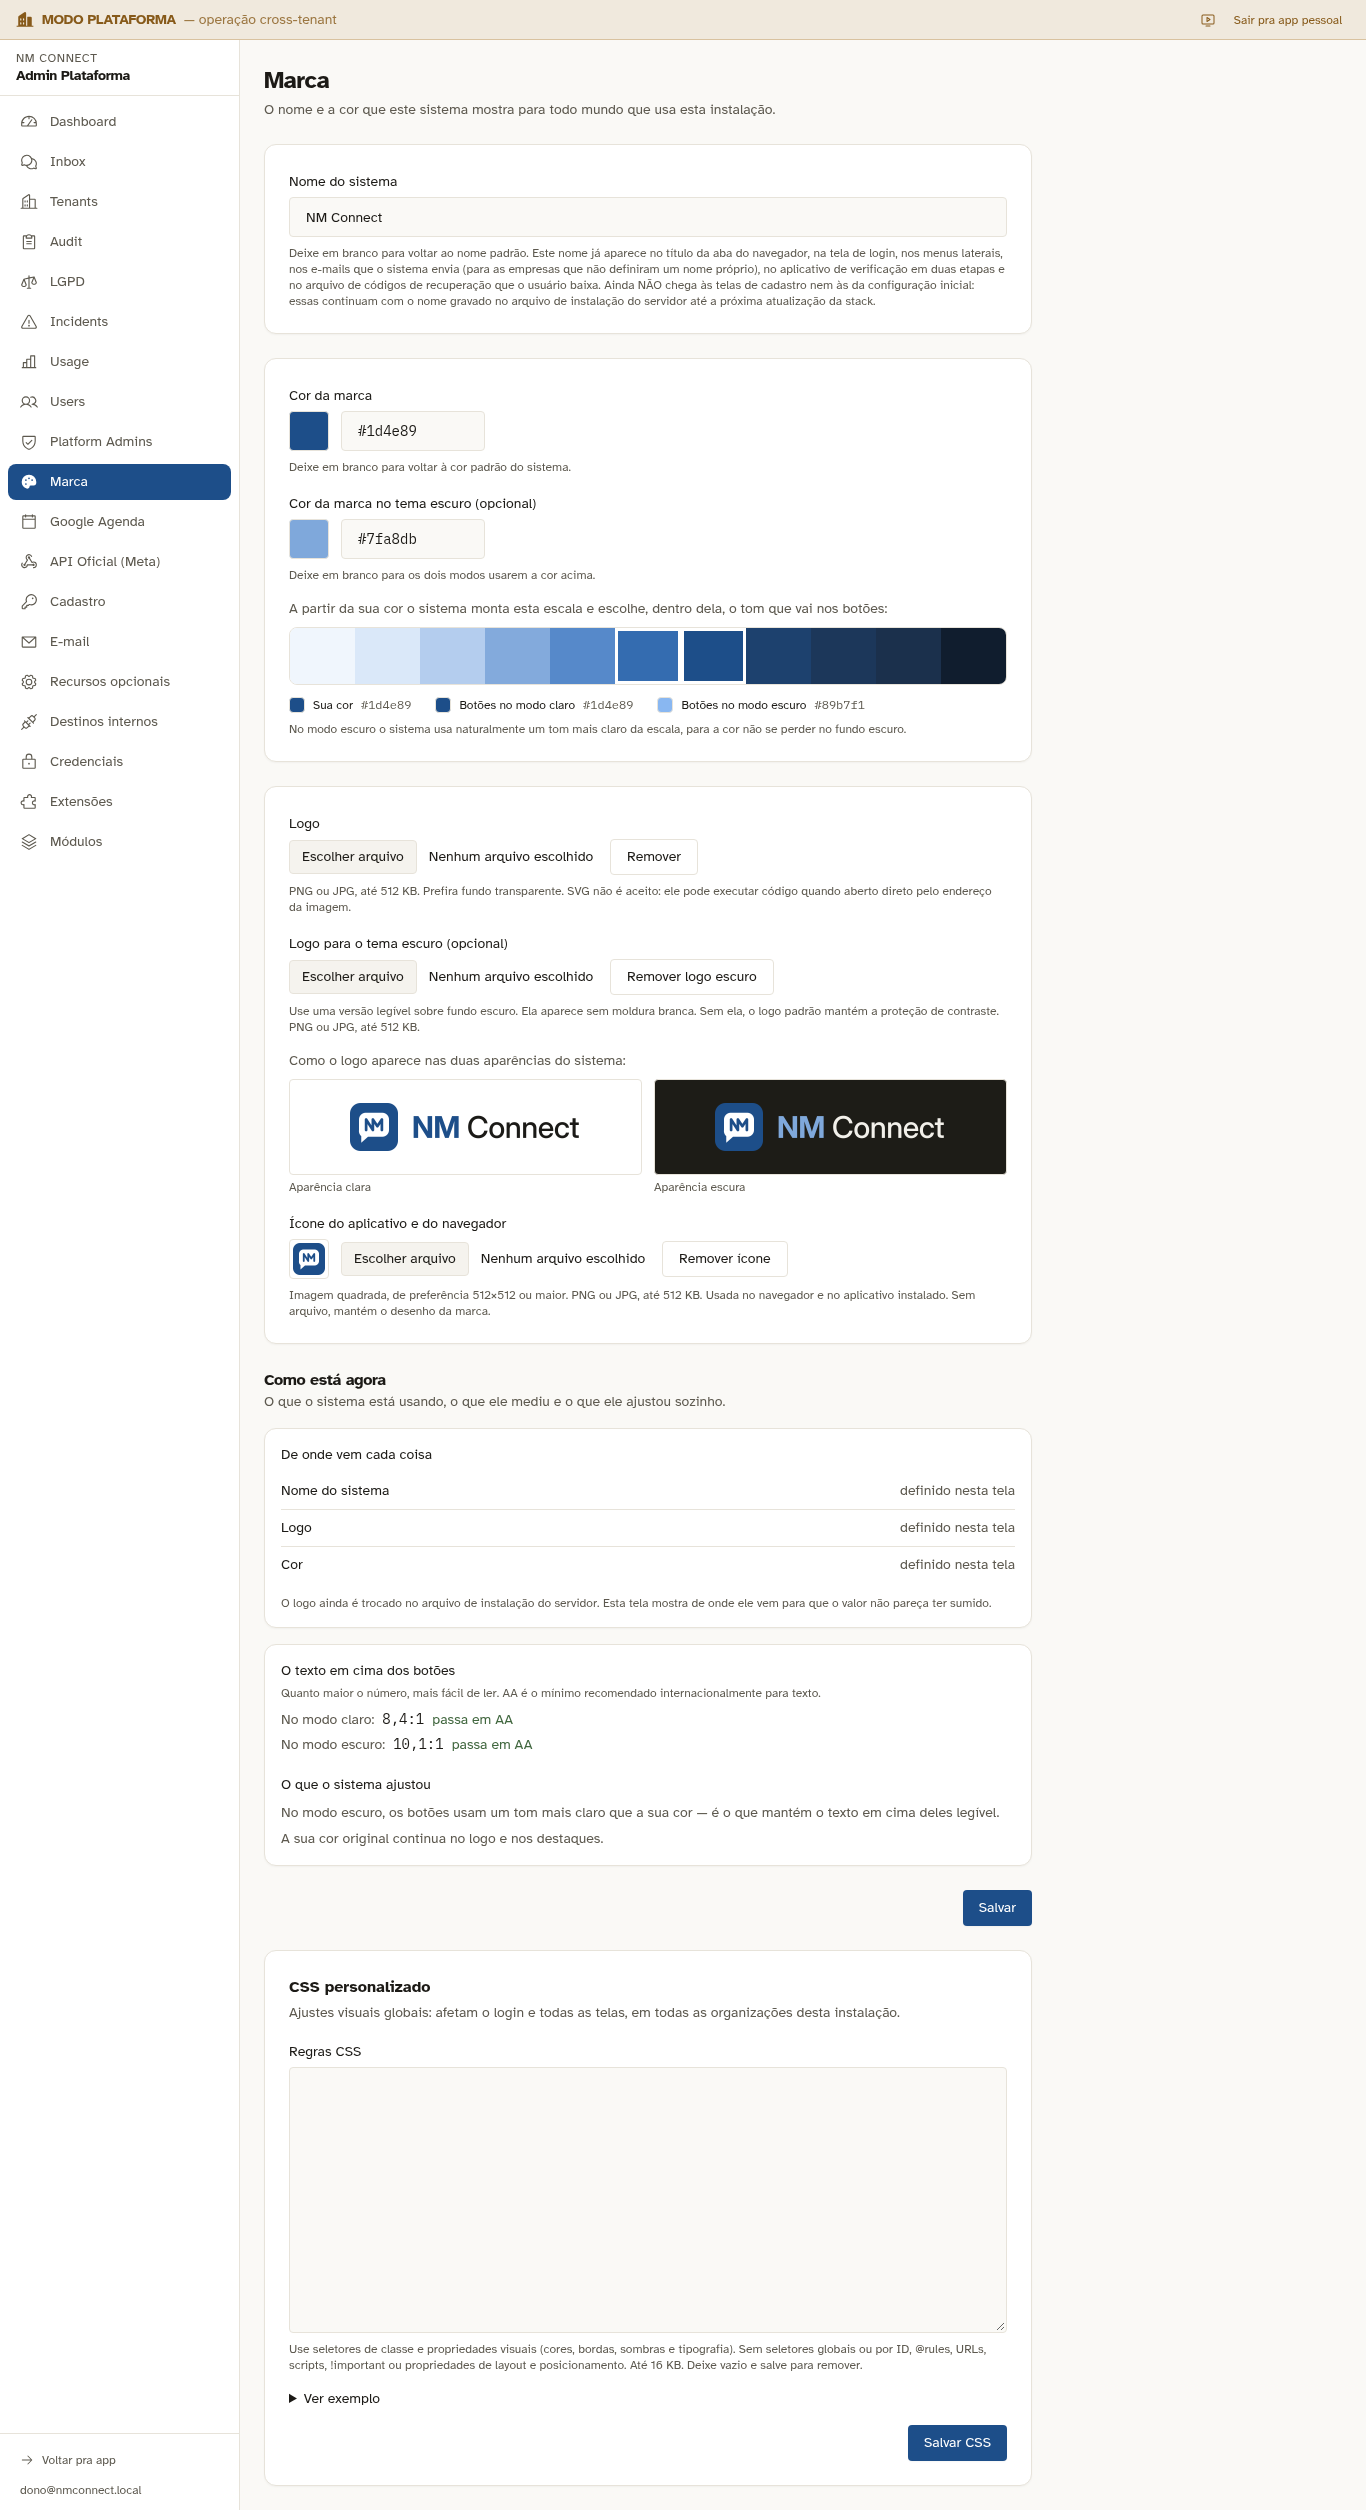
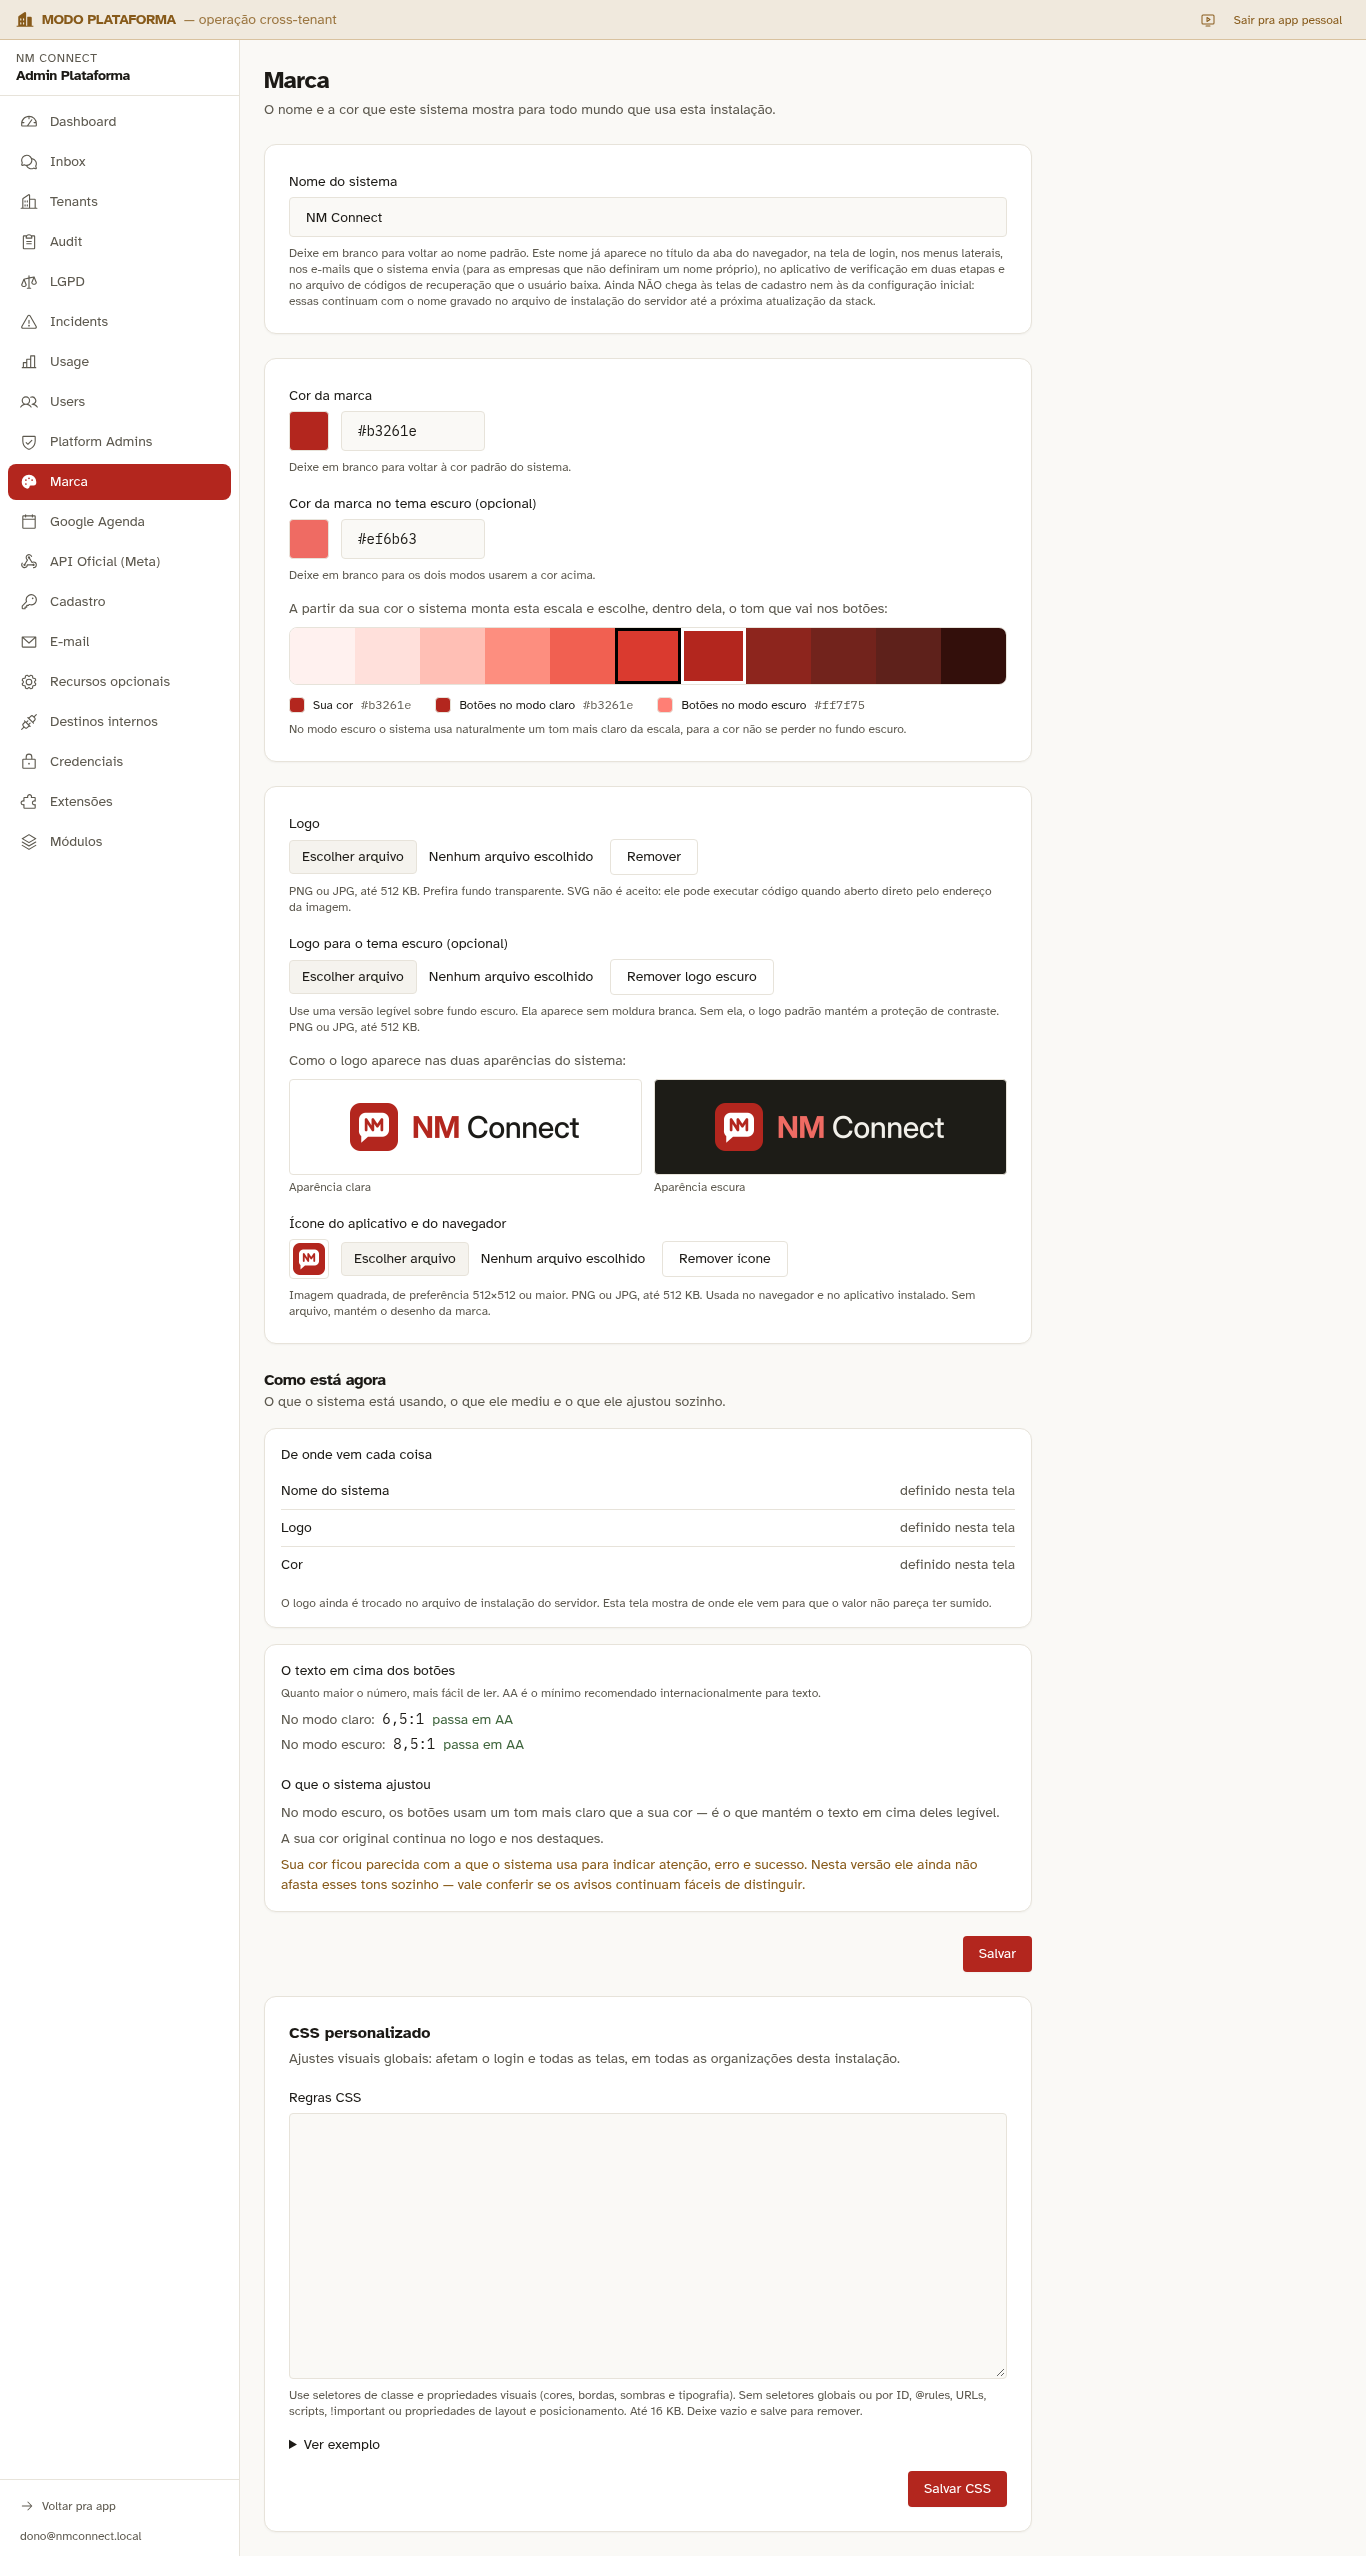
marca: troca a identidade do NM Connect para vermelho e branco
Accent #B3261E (claro) e #EF6B63 (escuro), com logo, ícone e PNGs
regerados. Reaplicada na stack local pela tela /admin/marca, com novas
evidências, inclusive comparando a marca com estados de erro e botão
destrutivo: os tokens de erro são independentes do accent, mas caem no
mesmo matiz, e paleta.md registra a medição e as saídas possíveis.

diff --git a/marca/nm-connect/gerar.py b/marca/nm-connect/gerar.py
@@ -40,7 +40,7 @@ def run(text, wght, size, x0, baseline, tracking=0.0):
     return " ".join(d), x
 
 
-ACC='#1D4E89'; ACC_D='#7FA8DB'; INK='#1B1A17'; PAPER='#F2F0EA'
+ACC='#B3261E'; ACC_D='#EF6B63'; INK='#1B1A17'; PAPER='#F2F0EA'
 def r(d): return re.sub(r'-?\d+\.\d+', lambda m: ('%.2f'%float(m.group())).rstrip('0').rstrip('.'), d)
 # simbolo em 64x64
 BUBBLE='M21 13H43A9 9 0 0 1 52 22V36A9 9 0 0 1 43 45H24L15 53V44.2A9 9 0 0 1 12 36V22A9 9 0 0 1 21 13Z'

diff --git a/marca/nm-connect/paleta.md b/marca/nm-connect/paleta.md
@@ -1,49 +1,83 @@
-# Paleta do NM Connect
+# Paleta do NM Connect — vermelho e branco
 
 | Papel | Hex | Onde entra |
 |---|---|---|
-| **Accent** (tema claro) | `#1D4E89` | `/admin/marca` → "Cor da marca"; `APP_ACCENT_HEX` |
-| **Accent escuro** (tema escuro) | `#7FA8DB` | `/admin/marca` → "Cor da marca no tema escuro" |
-| Tinta (texto do logo, claro) | `#1B1A17` | só nos arquivos de logo |
-| Papel (texto do logo, escuro) | `#F2F0EA` | só nos arquivos de logo |
+| **Accent** (tema claro) | `#B3261E` | `/admin/marca` → "Cor da marca"; `APP_ACCENT_HEX` |
+| **Accent escuro** (tema escuro) | `#EF6B63` | `/admin/marca` → "Cor da marca no tema escuro" |
+| Branco (balão do símbolo) | `#FFFFFF` | só nos arquivos de logo/ícone |
+| Tinta (texto "Connect", claro) | `#1B1A17` | só nos arquivos de logo |
+| Papel (texto "Connect", escuro) | `#F2F0EA` | só nos arquivos de logo |
 
 Os neutros e fundos (`#faf9f6` no claro, `#161510` no escuro) são do design system
-(`app/globals.css`) e **não** mudam por marca — é decisão do upstream, e a paleta foi
-escolhida para eles.
+(`app/globals.css`) e **não** mudam por marca.
 
-## Por que este azul
+## Por que este vermelho
 
-- **Azul-tinta, não verde.** Verde ficaria perto demais do WhatsApp, que é marca da Meta
-  e é justamente o canal que o produto opera; o NM Connect precisa ser reconhecível
-  como coisa *nossa* ao lado dele. Azul profundo lê como jurídico/empresarial, sóbrio,
-  sem cara de "startup colorida".
-- **Um matiz, dois pesos.** `#7FA8DB` é o mesmo azul, mais claro e menos saturado, para
-  não sumir no fundo escuro (o `#1D4E89` faz só 2,18:1 sobre `#161510`).
-- O sistema deriva sozinho a escala `--color-accent-50…950` a partir dessas sementes
-  (`lib/branding/css.ts`) e ajusta o tom dos botões para manter contraste.
+- `#B3261E` é um vermelho puro e fechado (OKLCH L 0,50 · C 0,18 · H 28,7°): nem
+  alaranjado nem rosado, escuro o bastante para ler como sóbrio/institucional.
+- `#EF6B63` é o mesmo matiz (H 25,8°), mais claro, para não afundar no fundo escuro
+  (o `#B3261E` faz só 2,80:1 sobre `#161510`).
+- O sistema deriva sozinho a escala `--color-accent-50…950` (`lib/branding/css.ts`). No
+  escuro ele pousou os botões em `#FF7F75`, com texto preto.
 
-## Contraste (WCAG 2.x, calculado pela fórmula de luminância relativa)
+## Contraste (WCAG 2.x, fórmula de luminância relativa)
 
-| Par | Razão | AA texto normal (4,5) | AA texto grande/UI (3,0) |
-|---|---|---|---|
-| Branco sobre `#1D4E89` (botão, tema claro) | **8,39:1** | passa (AAA) | passa |
-| `#1D4E89` sobre fundo claro `#faf9f6` (link/destaque) | **7,97:1** | passa (AAA) | passa |
-| `#1D4E89` sobre fundo escuro `#161510` | 2,18:1 | **falha** — por isso existe o accent escuro | falha |
-| `#7FA8DB` sobre fundo escuro `#161510` | **7,42:1** | passa (AAA) | passa |
-| `#161510` sobre `#7FA8DB` (texto escuro em botão escuro) | **7,42:1** | passa (AAA) | passa |
-| Branco sobre `#7FA8DB` | 2,46:1 | falha — o sistema usa texto escuro aqui | falha |
-| `#7FA8DB` sobre fundo claro `#faf9f6` | 2,34:1 | falha — não usar o accent escuro no tema claro | falha |
-| Tinta `#1B1A17` sobre `#faf9f6` (logo claro) | 16,53:1 | passa | passa |
-| Papel `#F2F0EA` sobre `#161510` (logo escuro) | 16,04:1 | passa | passa |
-| Balão branco sobre o ladrilho `#1D4E89` (ícone) | 8,39:1 | — | passa |
+| Par | Razão | AA texto (4,5) |
+|---|---|---|
+| Branco sobre `#B3261E` (botão, tema claro) | **6,54:1** | passa |
+| `#B3261E` sobre fundo claro `#faf9f6` | **6,21:1** | passa |
+| `#EF6B63` sobre fundo escuro `#161510` | **6,05:1** | passa |
+| `#161510` sobre `#EF6B63` | 6,05:1 | passa |
+| Preto sobre `#FF7F75` (botão real no tema escuro, medido no DOM) | 8,54:1 | passa |
+| Tinta `#1B1A17` sobre `#faf9f6` · Papel `#F2F0EA` sobre `#161510` | 16,53 · 16,04 | passa |
 
-Medido também pela própria tela `/admin/marca` depois de salvar ("O texto em cima dos
-botões"): **8,4:1 no modo claro** e **10,1:1 no modo escuro** — no escuro o sistema
-pousou o botão num tom da escala (`#89b7f1`) um pouco mais claro que a semente.
+Medido pela própria tela `/admin/marca` depois de salvar: **6,5:1 no claro** e
+**8,5:1 no escuro** (texto em cima dos botões).
+
+## ⚠ Risco: marca vermelha × cor de erro/ação destrutiva
+
+**Os tokens de erro são independentes do accent, mas têm praticamente a mesma cor.**
+
+- `app/globals.css`: `--color-error: #a94a3c` (claro) / `#c87263` (escuro), com
+  `--color-error-bg` e `--color-error-fg`; `--color-destructive: var(--color-error)`.
+  O botão `variant="destructive"` é `bg-error text-white` (`components/ui/button.tsx`).
+  O botão primário é `--color-primary: var(--color-accent)`. Ou seja: variáveis
+  separadas, nenhuma deriva da outra — mas a nossa marca caiu no mesmo matiz.
+- Medido (OKLab): accent `#B3261E` × error `#a94a3c` → matiz 28,7° × 30,4°, ΔE 0,058,
+  contraste entre os dois **1,16:1**. No escuro, botão `#FF7F75` × error `#c87263` →
+  ΔE 0,108, contraste **1,41:1**. (Com o azul anterior o ΔE era 0,246.)
+- O motor de derivação **detecta** a colisão e quer girar as semânticas para longe, mas
+  esta versão não emite esse giro no CSS (`token_nao_serializado`, `css.ts`). A própria
+  tela avisa depois de salvar: *"Sua cor ficou parecida com a que o sistema usa para
+  indicar atenção, erro e sucesso. Nesta versão ele ainda não afasta esses tons
+  sozinho"*.
+- Evidência em `evidencias/erro-x-marca-*.png`:
+  - **login com senha errada**: a caixa "Email ou senha incorretos" (error) fica logo
+    acima do botão "Entrar" (marca). Mesma família, distinguíveis só pelo formato (caixa
+    clara × botão cheio).
+  - **Configurações › Organização**: "Salvar" e "Aplicar interface" (primários) ficam
+    na mesma tela que "Apagar todos os dados de atendimento" (destrutivo). No claro o
+    destrutivo é só um pouco mais terroso; **no escuro o "Salvar" (`#FF7F75`) chama
+    mais atenção que o próprio botão de apagar (`#c87263`)**. O item ativo do menu e o
+    interruptor ligado também ficam vermelhos.
+
+**Conclusão:** dá para distinguir **pelo texto e pelo contexto**, não pela cor. O
+vermelho deixa de sinalizar perigo: toda ação comum fica com cara de destrutiva.
+Saídas possíveis, sem editar o upstream (decisão do Thiago):
+
+1. **Vermelho só na identidade** (logo, ícone, materiais) e accent da interface em
+   neutro escuro (grafite, por ex. `#2B2A27` / `#E8E6E0` no escuro). A marca continua
+   vermelha e branca em tudo que se vê primeiro; a UI preserva o vermelho para erro.
+2. **Manter o vermelho como accent** (aplicado hoje) e aceitar a ambiguidade, que o
+   texto dos botões e as confirmações de ação destrutiva (diálogo) mitigam.
+3. Contribuir no upstream a serialização das semânticas deslocadas — aí o próprio
+   sistema giraria o erro para longe da marca.
+
+O CSS personalizado da tela não resolve: mexer em `.bg-error` tiraria o erro do
+vermelho, que é pior.
 
 ## Como aplicar
 
-1. `/admin/marca` → Cor da marca `#1D4E89`, Cor no tema escuro `#7FA8DB` → **Salvar**.
-2. Semente/piso no `.env` do servidor: `APP_ACCENT_HEX=#1D4E89` (o instalador só aceita
-   `#` + 6 dígitos, que é a forma que os e-mails de acesso entendem).
+1. `/admin/marca` → Cor da marca `#B3261E`, Cor no tema escuro `#EF6B63` → **Salvar**.
+2. Semente no `.env` do servidor: `APP_ACCENT_HEX=#B3261E`.
 3. Não há variável de ambiente para o accent escuro: ele vive só no banco (tela).

diff --git a/marca/nm-connect/README.md b/marca/nm-connect/README.md
@@ -8,7 +8,7 @@ confiável, sóbrio — atendimento jurídico e empresarial.
 ## O símbolo
 
 Um balão de conversa (cantos retos arredondados, cauda à esquerda) dentro de um
-ladrilho azul-tinta. Dentro do balão, **N e M desenhados num traço único e contínuo**:
+ladrilho vermelho (`#B3261E`). Dentro do balão, **N e M desenhados num traço único e contínuo**:
 a perna direita do N é a perna esquerda do M. Uma linha só, ligando as duas letras —
 a conversa e a conexão. Não usa círculo, telefone nem verde: nada que lembre o logo do
 WhatsApp ou de outra marca da Meta.
@@ -21,15 +21,19 @@ O wordmark é Inter (SIL OFL 1.1) convertida em contornos: **NM** em 700, **Conn
 | Arquivo | Uso |
 |---|---|
 | `logo.svg` / `png/logo.png` | Logo horizontal para fundo claro (PNG com 192 px de altura, fundo transparente) |
-| `logo-escuro.svg` / `png/logo-escuro.png` | Logo para fundo escuro ("NM" em `#7FA8DB`, "Connect" em `#F2F0EA`) |
+| `logo-escuro.svg` / `png/logo-escuro.png` | Logo para fundo escuro ("NM" em `#EF6B63`, "Connect" em `#F2F0EA`) |
 | `icone.svg` / `png/icone-512.png` | Símbolo quadrado; legível a 16–32 px (aba, app instalado) |
 | `paleta.md` | Cores, justificativa e contraste WCAG medido |
 | `gerar.py` | Regera os três SVGs (precisa de `fonttools`; instruções no cabeçalho) |
-| `evidencias/` | Telas do sistema com a marca aplicada, claro e escuro |
+| `evidencias/` | Telas do sistema com a marca aplicada, claro e escuro; `erro-x-marca-*` comparam a marca com estados de erro e botão destrutivo |
 
 Regras rápidas: não recolorir o símbolo fora da paleta; não esticar (o logo tem
 proporção ~4,8:1 e a barra lateral o mostra com 28 px de altura); manter o ladrilho
-azul com balão branco nos dois temas — é o que torna o ícone reconhecível na aba.
+vermelho com balão branco nos dois temas — é o que torna o ícone reconhecível na aba.
+
+> ⚠ **Vermelho × erro.** O vermelho da marca cai no mesmo matiz que o sistema usa para
+> erro e ação destrutiva (`--color-error: #a94a3c`), e esta versão do produto não afasta
+> um do outro sozinha. Medição, telas e saídas possíveis em [`paleta.md`](paleta.md#-risco-marca-vermelha--cor-de-erroação-destrutiva).
 
 ## Como aplicar numa instalação
 
@@ -41,8 +45,8 @@ serve qualquer marca, e o banco manda sobre o `.env`. Nada aqui edita arquivo do
 Entre como super-admin e abra **`/admin/marca`**:
 
 1. **Nome do sistema:** `NM Connect`
-2. **Cor da marca:** `#1D4E89`
-3. **Cor da marca no tema escuro:** `#7FA8DB`
+2. **Cor da marca:** `#B3261E`
+3. **Cor da marca no tema escuro:** `#EF6B63`
 4. **Logo:** suba `png/logo.png` (sobe na hora, não depende do Salvar)
 5. **Logo para o tema escuro:** suba `png/logo-escuro.png`
 6. **Ícone do aplicativo e do navegador:** suba `png/icone-512.png`
@@ -59,7 +63,7 @@ e a paleta não precisou de ajuste fino.
 
 ```bash
 APP_NAME="NM Connect"
-APP_ACCENT_HEX=#1D4E89
+APP_ACCENT_HEX=#B3261E
 # Opcional — o logo subido pela tela vence esta URL:
 APP_LOGO_URL=https://raw.githubusercontent.com/Crud-Make/nm-connect/main/marca/nm-connect/png/logo.png
 ```
